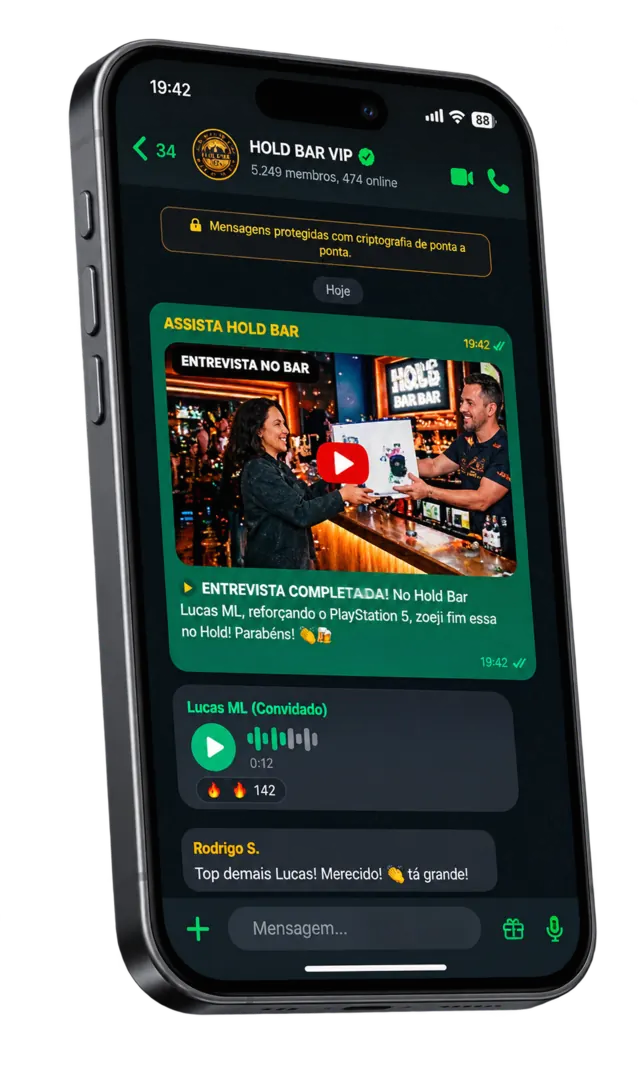
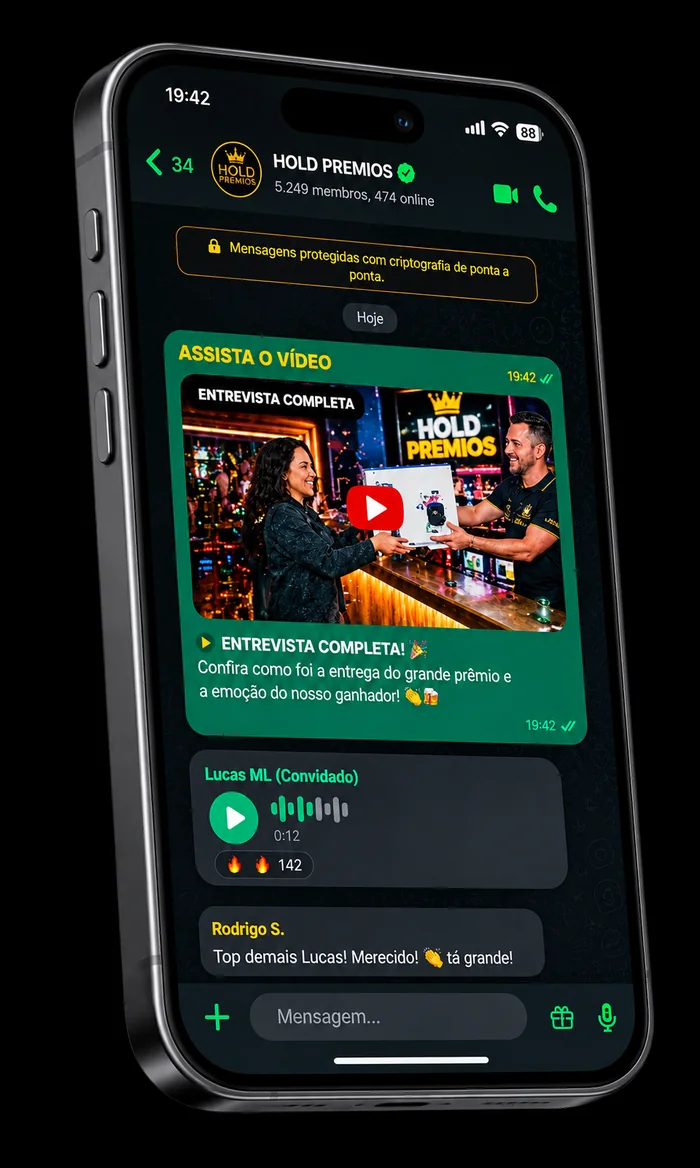
refactor: rename brand to HOLD PRÊMIOS
Update branding across site metadata, titles, and SEO tags to reflect the new company name.

diff --git a/index.html b/index.html
@@ -27,29 +27,29 @@
         }, true);
       })();
     </script>
-    <title>HOLD BAR SPORTS & MUSIC — Rifas e Prêmios</title>
-    <meta name="description" content="Landing page oficial do Hold Bar Sports & Music: concorra a prêmios incríveis, sorteios transparentes e faça parte da nossa comunidade exclusiva no WhatsApp." />
-    <meta name="keywords" content="Hold Bar, rifas, sorteios, prêmios, PlayStation 5, iPhone, Smart TV, bar sports music, poker club, grupo vip whatsapp, sorteios transparentes" />
-    <meta name="author" content="HOLD BAR SPORTS & MUSIC" />
+    <title>HOLD PRÊMIOS — Rifas e Sorteios</title>
+    <meta name="description" content="Landing page oficial da Hold Prêmios: concorra a prêmios incríveis, sorteios transparentes e faça parte da nossa comunidade exclusiva no WhatsApp." />
+    <meta name="keywords" content="Hold Prêmios, rifas, sorteios, prêmios, PlayStation 5, iPhone, Smart TV, grupo vip whatsapp, sorteios transparentes" />
+    <meta name="author" content="HOLD PRÊMIOS" />
     <meta name="robots" content="index, follow, max-image-preview:large, max-snippet:-1, max-video-preview:-1" />
 
     <!-- Open Graph / Facebook / WhatsApp Link Previews -->
     <meta property="og:type" content="website" />
-    <meta property="og:site_name" content="HOLD BAR SPORTS & MUSIC" />
-    <meta property="og:title" content="HOLD BAR SPORTS & MUSIC — Rifas e Prêmios" />
-    <meta property="og:description" content="Landing page oficial do Hold Bar Sports & Music: concorra a prêmios incríveis, sorteios transparentes e faça parte da nossa comunidade exclusiva no WhatsApp." />
+    <meta property="og:site_name" content="HOLD PRÊMIOS" />
+    <meta property="og:title" content="HOLD PRÊMIOS — Rifas e Sorteios" />
+    <meta property="og:description" content="Landing page oficial da Hold Prêmios: concorra a prêmios incríveis, sorteios transparentes e faça parte da nossa comunidade exclusiva no WhatsApp." />
     <meta property="og:image" content="/assets/images/hero_hold_bar.webp" />
     <meta property="og:image:width" content="1440" />
     <meta property="og:image:height" content="900" />
-    <meta property="og:image:alt" content="Hold Bar Sports & Music — Rifas e Prêmios Oficiais" />
+    <meta property="og:image:alt" content="Hold Prêmios — Rifas e Prêmios Oficiais" />
     <meta property="og:locale" content="pt_BR" />
 
     <!-- Twitter / X Social Share Card -->
     <meta name="twitter:card" content="summary_large_image" />
-    <meta name="twitter:title" content="HOLD BAR SPORTS & MUSIC — Rifas e Prêmios" />
-    <meta name="twitter:description" content="Landing page oficial do Hold Bar Sports & Music: concorra a prêmios incríveis, sorteios transparentes e faça parte da nossa comunidade exclusiva no WhatsApp." />
+    <meta name="twitter:title" content="HOLD PRÊMIOS — Rifas e Sorteios" />
+    <meta name="twitter:description" content="Landing page oficial da Hold Prêmios: concorra a prêmios incríveis, sorteios transparentes e faça parte da nossa comunidade exclusiva no WhatsApp." />
     <meta name="twitter:image" content="/assets/images/hero_hold_bar.webp" />
-    <meta name="twitter:image:alt" content="Hold Bar Sports & Music — Rifas e Prêmios Oficiais" />
+    <meta name="twitter:image:alt" content="Hold Prêmios — Rifas e Prêmios Oficiais" />
 
     <!-- Favicon & Mobile Theme -->
     <link rel="icon" type="image/webp" href="/assets/images/logo_hold_ouro.webp" />
@@ -73,13 +73,13 @@
       "@graph": [
         {
           "@type": "Organization",
-          "@id": "https://holdbar.com.br/#organization",
-          "name": "HOLD BAR SPORTS & MUSIC",
-          "alternateName": "Hold Bar",
-          "description": "Bar de esportes, música ao vivo e rifas oficiais com apuração transparente.",
+          "@id": "https://holdpremios.com.br/#organization",
+          "name": "HOLD PRÊMIOS",
+          "alternateName": "Hold Prêmios",
+          "description": "Rifas e prêmios oficiais com apuração transparente.",
           "logo": {
             "@type": "ImageObject",
-            "url": "https://holdbar.com.br/assets/images/logo_hold_ouro.webp"
+            "url": "https://holdpremios.com.br/assets/images/logo_hold_ouro.webp"
           },
           "sameAs": [
             "https://instagram.com/holdbar_pokerclub"
@@ -87,17 +87,17 @@
         },
         {
           "@type": "WebSite",
-          "@id": "https://holdbar.com.br/#website",
-          "name": "HOLD BAR SPORTS & MUSIC — Rifas e Prêmios",
-          "description": "Landing page oficial do Hold Bar Sports & Music: concorra a prêmios incríveis, sorteios transparentes e faça parte da nossa comunidade exclusiva no WhatsApp.",
+          "@id": "https://holdpremios.com.br/#website",
+          "name": "HOLD PRÊMIOS — Rifas e Sorteios",
+          "description": "Landing page oficial da Hold Prêmios: concorra a prêmios incríveis, sorteios transparentes e faça parte da nossa comunidade exclusiva no WhatsApp.",
           "publisher": {
-            "@id": "https://holdbar.com.br/#organization"
+            "@id": "https://holdpremios.com.br/#organization"
           },
           "inLanguage": "pt-BR"
         },
         {
           "@type": "FAQPage",
-          "@id": "https://holdbar.com.br/#faq",
+          "@id": "https://holdpremios.com.br/#faq",
           "mainEntity": [
             {
               "@type": "Question",
@@ -136,7 +136,7 @@
               "name": "Como recebo o meu prêmio?",
               "acceptedAnswer": {
                 "@type": "Answer",
-                "text": "Você pode retirar o prêmio pessoalmente no Hold Bar ou enviamos com frete segurado e código de rastreamento diretamente para o seu endereço em qualquer lugar do Brasil."
+                "text": "Você pode retirar o prêmio pessoalmente na Hold Prêmios ou enviamos com frete segurado e código de rastreamento diretamente para o seu endereço em qualquer lugar do Brasil."
               }
             },
             {

diff --git a/src/components/VideoSection.tsx b/src/components/VideoSection.tsx
@@ -1,6 +1,5 @@
 import React, { useState } from "react";
 import {
-  CheckCircle2,
   Shield,
   Sparkles,
   X,
@@ -39,7 +38,7 @@ export const VideoSection: React.FC = () => {
         <div className="max-w-4xl mx-auto px-4 sm:px-6 lg:px-8 text-center mb-8 sm:mb-12">
           <div className="inline-flex items-center gap-2 px-3.5 py-1.5 rounded-full bg-neutral-900 border border-[#FF7900]/30 text-xs font-condensed font-bold tracking-widest uppercase text-[#FFB000] mb-3 shadow-[0_0_20px_rgba(255,121,0,0.2)]">
             <Sparkles className="w-3.5 h-3.5 text-[#FF7900]" />
-            <span>Prêmios & Ganhadores Oficiais • Hold Bar</span>
+            <span>Prêmios & Ganhadores Oficiais • Hold Prêmios</span>
           </div>
 
           <h2 className="font-condensed font-black text-4xl sm:text-5xl lg:text-6xl uppercase italic tracking-tight text-white leading-none">
@@ -159,31 +158,17 @@ export const VideoSection: React.FC = () => {
           </div>
         </div>
 
-        {/* Pilares de Credibilidade e Botão Central de WhatsApp */}
-        <div className="max-w-5xl mx-auto px-4 sm:px-6 lg:px-8 mt-12 sm:mt-16">
-          <div className="grid grid-cols-1 sm:grid-cols-2 gap-4 sm:gap-6">
-            <div className="flex items-start gap-3.5 p-4 rounded-2xl bg-neutral-900/70 border border-neutral-800">
-              <CheckCircle2 className="w-6 h-6 text-[#FF7900] shrink-0 mt-0.5" />
-              <div>
-                <h4 className="font-condensed font-bold text-lg uppercase text-white tracking-wide">
-                  Entrega em Mãos ou com Seguro
-                </h4>
-                <p className="text-xs sm:text-sm text-neutral-400 font-sans mt-0.5">
-                  Receba seu prêmio pessoalmente nos eventos do Hold Bar ou entregue na sua casa com nota fiscal e rastreio blindado.
-                </p>
-              </div>
-            </div>
-
-            <div className="flex items-start gap-3.5 p-4 rounded-2xl bg-neutral-900/70 border border-neutral-800">
-              <Shield className="w-6 h-6 text-[#FFB000] shrink-0 mt-0.5" />
-              <div>
-                <h4 className="font-condensed font-bold text-lg uppercase text-white tracking-wide">
-                  Sorteios Avisados no Grupo VIP
-                </h4>
-                <p className="text-xs sm:text-sm text-neutral-400 font-sans mt-0.5">
-                  Datas e horários sempre informados com antecedência dentro do nosso grupo oficial do WhatsApp.
-                </p>
-              </div>
+        {/* Pilares de Credibilidade */}
+        <div className="max-w-xl mx-auto px-4 sm:px-6 lg:px-8 mt-12 sm:mt-16">
+          <div className="flex items-start gap-3.5 p-4 rounded-2xl bg-neutral-900/70 border border-neutral-800">
+            <Shield className="w-6 h-6 text-[#FFB000] shrink-0 mt-0.5" />
+            <div>
+              <h4 className="font-condensed font-bold text-lg uppercase text-white tracking-wide">
+                Sorteios Avisados no Grupo VIP
+              </h4>
+              <p className="text-xs sm:text-sm text-neutral-400 font-sans mt-0.5">
+                Datas e horários sempre informados com antecedência dentro do nosso grupo oficial do WhatsApp.
+              </p>
             </div>
           </div>
         </div>
@@ -212,7 +197,7 @@ export const VideoSection: React.FC = () => {
             {/* Cabeçalho do Modal */}
             <div className="pr-12 mb-3">
               <span className="text-xs font-condensed font-bold uppercase tracking-wider text-[#FF7900]">
-                Hold Bar • {selectedItem.tag}
+                Hold Prêmios • {selectedItem.tag}
               </span>
               <h3 className="font-condensed font-black text-2xl sm:text-4xl uppercase italic text-white tracking-wide">
                 {selectedItem.title}

diff --git a/src/components/Hero.tsx b/src/components/Hero.tsx
@@ -1,5 +1,5 @@
 import React from "react";
-import { ShieldCheck, Sparkles, Trophy, Users } from "lucide-react";
+import { ShieldCheck, Trophy } from "lucide-react";
 import { WhatsAppButton } from "./WhatsAppButton";
 import { SITE_CONFIG } from "../config/site";
 
@@ -16,7 +16,7 @@ export const Hero: React.FC = () => {
           />
           <img
             src="/assets/images/hero_hold_bar.webp"
-            alt="Hold Bar Sports & Music — Rifas e Sorteios"
+            alt="Hold Prêmios — Rifas e Sorteios"
             fetchPriority="high"
             loading="eager"
             decoding="sync"
@@ -41,19 +41,13 @@ export const Hero: React.FC = () => {
           {/* LADO ESQUERDO: Tipografia Extrema, Slogan Aumentado e Botão CTA — Alinhado para Mobile */}
           <div className="lg:col-span-7 flex flex-col items-center text-center sm:items-start sm:text-left overflow-visible">
             
-            {/* Top Tagline / Category Badge */}
-            <div className="inline-flex items-center gap-2 px-3.5 py-1.5 rounded-full bg-black/85 backdrop-blur-md border border-[#FF7900]/40 text-[#FFB000] text-xs font-condensed font-bold tracking-widest uppercase mb-5 shadow-[0_0_20px_rgba(255,121,0,0.3)]">
-              <Sparkles className="w-3.5 h-3.5 text-[#FF7900] animate-pulse" />
-              <span>Sorteios Oficiais &bull; Sports &bull; Live Music</span>
-            </div>
-
             {/* Título Principal */}
             <h1 className="font-hero text-6xl sm:text-7xl md:text-8xl xl:text-9xl leading-[0.88] select-none my-1 tracking-tight overflow-visible">
               <span className="block hero-rifas-text overflow-visible">
-                RIFAS DO
+                HOLD
               </span>
               <span className="block hero-hold-bar-text -mt-1 sm:-mt-2 overflow-visible">
-                HOLD BAR
+                PRÊMIOS
               </span>
             </h1>
 
@@ -77,7 +71,7 @@ export const Hero: React.FC = () => {
             </div>
 
             {/* Quick Trust Highlights */}
-            <div className="mt-8 sm:mt-10 pt-6 sm:pt-8 border-t border-neutral-800/80 grid grid-cols-3 gap-2 sm:gap-6 w-full max-w-xl text-neutral-400">
+            <div className="mt-8 sm:mt-10 pt-6 sm:pt-8 border-t border-neutral-800/80 grid grid-cols-2 gap-4 sm:gap-8 w-full max-w-md text-neutral-400">
               <div className="flex flex-col items-center sm:items-start text-center sm:text-left">
                 <div className="flex items-center gap-1.5 text-white font-condensed font-bold text-base sm:text-xl">
                   <ShieldCheck className="w-4 h-4 text-[#FF7900] shrink-0" />
@@ -95,16 +89,6 @@ export const Hero: React.FC = () => {
                 </div>
                 <span className="text-[11px] sm:text-xs text-neutral-400 font-sans mt-0.5">
                   Prêmios entregues
-                </span>
-              </div>
-
-              <div className="flex flex-col items-center sm:items-start text-center sm:text-left">
-                <div className="flex items-center gap-1.5 text-white font-condensed font-bold text-base sm:text-xl">
-                  <Users className="w-4 h-4 text-[#FF7900] shrink-0" />
-                  <span>{SITE_CONFIG.stats.activeMembers}</span>
-                </div>
-                <span className="text-[11px] sm:text-xs text-neutral-400 font-sans mt-0.5">
-                  No grupo VIP
                 </span>
               </div>
             </div>

diff --git a/src/components/WhyParticipateSection.tsx b/src/components/WhyParticipateSection.tsx
@@ -81,7 +81,7 @@ export const WhyParticipateSection: React.FC = () => {
                     3. COMUNIDADE ATIVA
                   </h3>
                   <p className="mt-1 text-xs sm:text-sm text-neutral-400 font-sans leading-relaxed">
-                    Mais de 3.200 membros participando com descontos exclusivos, sorteios relâmpago de cotas grátis e resenha esportiva.
+                    Comunidade exclusiva participando com descontos especiais, sorteios relâmpago de cotas grátis e muita interação no grupo.
                   </p>
                 </div>
               </div>
@@ -108,12 +108,12 @@ export const WhyParticipateSection: React.FC = () => {
             <div className="relative z-10 w-full max-w-[320px] xs:max-w-[360px] sm:max-w-[420px] lg:max-w-[450px] flex justify-center">
               <img
                 src="/assets/images/smartphone_whatsapp.webp"
-                alt="Smartphone com Chat do WhatsApp do Hold Bar VIP"
+                alt="Smartphone com Chat do WhatsApp da Hold Prêmios VIP"
                 loading="lazy"
                 decoding="async"
                 width="450"
-                height="600"
-                className="w-full h-auto object-contain filter drop-shadow-[0_20px_45px_rgba(0,0,0,0.95)] hover:scale-[1.02] transition-transform duration-500 select-none"
+                height="751"
+                className="w-full h-auto object-contain rounded-3xl filter drop-shadow-[0_20px_45px_rgba(0,0,0,0.95)] hover:scale-[1.02] transition-transform duration-500 select-none"
                 referrerPolicy="no-referrer"
               />
             </div>
@@ -121,7 +121,7 @@ export const WhyParticipateSection: React.FC = () => {
             {/* Disclaimer */}
             <div className="text-center mt-3">
               <span className="text-[11px] text-neutral-400 font-sans tracking-wide">
-                Grupo VIP oficial no WhatsApp &bull; Mais de 3.200 membros participando
+                Grupo VIP oficial da Hold Prêmios no WhatsApp
               </span>
             </div>
           </div>

diff --git a/src/components/FinalCtaSection.tsx b/src/components/FinalCtaSection.tsx
@@ -9,7 +9,7 @@ export const FinalCtaSection: React.FC = () => {
       <div className="absolute inset-0 z-0">
         <img
           src="/assets/images/palco_cinematico.webp"
-          alt="Palco Cinemático do Hold Bar Sports & Music"
+          alt="Palco Cinemático da Hold Prêmios"
           loading="lazy"
           decoding="async"
           width="1600"
@@ -58,8 +58,8 @@ export const FinalCtaSection: React.FC = () => {
           />
         </div>
 
-        {/* Badges de Confiança Abaixo do Botão — Sem o card de loteria federal */}
-        <div className="mt-8 sm:mt-10 grid grid-cols-1 sm:grid-cols-3 gap-3 sm:gap-6 text-xs text-neutral-300 font-sans w-full max-w-2xl">
+        {/* Badges de Confiança Abaixo do Botão */}
+        <div className="mt-8 sm:mt-10 grid grid-cols-1 sm:grid-cols-2 gap-3 sm:gap-6 text-xs text-neutral-300 font-sans w-full max-w-lg">
           <div className="flex items-center justify-center gap-2 bg-neutral-900/60 backdrop-blur-sm px-3.5 py-2.5 rounded-xl border border-neutral-800">
             <Zap className="w-4 h-4 text-[#FFB000] shrink-0" />
             <span className="truncate">Apuração Imediata</span>
@@ -67,10 +67,6 @@ export const FinalCtaSection: React.FC = () => {
           <div className="flex items-center justify-center gap-2 bg-neutral-900/60 backdrop-blur-sm px-3.5 py-2.5 rounded-xl border border-neutral-800">
             <Trophy className="w-4 h-4 text-[#FF7900] shrink-0" />
             <span className="truncate">Prêmios Entregues</span>
-          </div>
-          <div className="flex items-center justify-center gap-2 bg-neutral-900/60 backdrop-blur-sm px-3.5 py-2.5 rounded-xl border border-neutral-800">
-            <span className="w-2 h-2 rounded-full bg-emerald-400 animate-pulse shrink-0" />
-            <span className="truncate">+3.200 no Grupo</span>
           </div>
         </div>
 

diff --git a/src/config/site.ts b/src/config/site.ts
@@ -1,28 +1,27 @@
 /**
- * Configurações Centrais do HOLD BAR SPORTS & MUSIC
+ * Configurações Centrais da HOLD PRÊMIOS
  * Altere facilmente o link do WhatsApp, dados de contato e prêmios aqui.
  */
 
 export const SITE_CONFIG = {
-  brandName: "HOLD BAR SPORTS & MUSIC",
-  shortName: "HOLD BAR",
-  tagline: "Sports, Music & Prêmios Exclusivos",
+  brandName: "HOLD PRÊMIOS",
+  shortName: "HOLD PRÊMIOS",
+  tagline: "Rifas e Prêmios Exclusivos",
   
   // Link central do WhatsApp (utilizado em todos os CTAs)
-  whatsappGroupUrl: "https://chat.whatsapp.com/HoldBarRifasOficial",
-  whatsappDirectUrl: "https://wa.me/5511999998888?text=Ol%C3%A1!%20Vim%20pela%20Landing%20Page%20e%20quero%20entrar%20no%20grupo%20VIP%20de%20rifas%20do%20Hold%20Bar!",
+  whatsappGroupUrl: "https://chat.whatsapp.com/HGaW0H8agKR36iZ7rRTIi1?s=sw&p=i&iam=2",
+  whatsappDirectUrl: "https://wa.me/5511999998888?text=Ol%C3%A1!%20Vim%20pela%20Landing%20Page%20e%20quero%20entrar%20no%20grupo%20VIP%20de%20rifas%20da%20Hold%20Pr%C3%AAmios!",
   
   social: {
     instagram: "https://instagram.com/holdbar_pokerclub",
     instagramHandle: "@holdbar_pokerclub",
     drawNotice: "Datas e horários das rifas sempre avisados no Grupo VIP do WhatsApp",
-    supportEmail: "contato@holdbar.com.br",
+    supportEmail: "contato@holdpremios.com.br",
   },
 
   stats: {
     totalPrizesAwarded: "+R$ 180.000",
     totalWinners: "140+",
-    activeMembers: "3.200+",
     satisfactionRate: "100%",
   },
 

diff --git a/src/components/HoldLogo.tsx b/src/components/HoldLogo.tsx
@@ -20,7 +20,7 @@ export const HoldLogo: React.FC<HoldLogoProps> = ({
         <div className="relative w-14 h-14 sm:w-16 sm:h-16 shrink-0 flex items-center justify-center transition-transform hover:scale-105 duration-200">
           <img
             src={logoSrc}
-            alt="Hold Bar Sports & Music"
+            alt="Hold Prêmios"
             className="w-full h-full object-contain filter drop-shadow-[0_0_15px_rgba(255,121,0,0.7)]"
             referrerPolicy="no-referrer"
           />
@@ -39,7 +39,7 @@ export const HoldLogo: React.FC<HoldLogoProps> = ({
 
         <img
           src={logoSrc}
-          alt="Hold Bar Sports & Music Emblema Oficial"
+          alt="Hold Prêmios Emblema Oficial"
           className="relative z-10 w-64 h-64 sm:w-80 sm:h-80 md:w-96 md:h-96 object-contain filter drop-shadow-[0_0_40px_rgba(255,121,0,0.7)]"
           referrerPolicy="no-referrer"
         />
@@ -53,7 +53,7 @@ export const HoldLogo: React.FC<HoldLogoProps> = ({
       <div className="relative w-28 h-28 sm:w-32 sm:h-32 shrink-0 flex items-center justify-center transition-transform hover:scale-105 duration-300">
         <img
           src={logoSrc}
-          alt="Hold Bar Sports & Music Logo Oficial"
+          alt="Hold Prêmios Logo Oficial"
           className="w-full h-full object-contain filter drop-shadow-[0_0_25px_rgba(255,121,0,0.8)]"
           referrerPolicy="no-referrer"
         />

diff --git a/src/components/Footer.tsx b/src/components/Footer.tsx
@@ -13,14 +13,9 @@ export const Footer: React.FC = () => {
         <div className="flex flex-col items-center text-center">
           
           {/* Logo Hold Centralizada */}
-          <div className="mb-6">
+          <div className="mb-8">
             <HoldLogo size="md" />
           </div>
-
-          {/* Pequena Descrição da Marca */}
-          <p className="max-w-xl text-sm sm:text-base text-neutral-400 font-sans leading-relaxed mb-8">
-            O <strong className="text-white">HOLD BAR SPORTS & MUSIC</strong> une paixão por esportes, música ao vivo e as melhores rifas do Brasil. Transparência garantida, extrações públicas e prêmios entregues na mão dos ganhadores.
-          </p>
 
           {/* Links de Navegação */}
           <nav className="flex flex-wrap justify-center gap-6 sm:gap-8 mb-8 text-sm font-condensed font-bold uppercase tracking-wider text-neutral-300">

diff --git a/src/components/FloatingWhatsApp.tsx b/src/components/FloatingWhatsApp.tsx
@@ -34,7 +34,7 @@ export const FloatingWhatsApp: React.FC = () => {
         target="_blank"
         rel="noopener noreferrer"
         className="relative group w-14 h-14 sm:w-16 sm:h-16 rounded-full bg-gradient-to-tr from-[#25D366] to-[#1EBE5D] flex items-center justify-center text-white shadow-[0_0_25px_rgba(37,211,102,0.6)] hover:shadow-[0_0_40px_rgba(37,211,102,0.9)] hover:scale-110 active:scale-95 transition-all duration-300"
-        aria-label="Entrar no Grupo do WhatsApp do Hold Bar"
+        aria-label="Entrar no Grupo do WhatsApp da Hold Prêmios"
       >
         {/* Radar wave ping */}
         <span className="absolute -inset-1 rounded-full bg-[#25D366] opacity-35 animate-ping pointer-events-none" />

diff --git a/src/components/FaqSection.tsx b/src/components/FaqSection.tsx
@@ -30,7 +30,7 @@ const FAQ_ITEMS: FaqItem[] = [
   {
     question: "Como recebo o meu prêmio?",
     answer:
-      "Você pode retirar o prêmio pessoalmente no Hold Bar ou enviamos com frete segurado e código de rastreamento diretamente para o seu endereço em qualquer lugar do Brasil.",
+      "Você pode retirar o prêmio pessoalmente na Hold Prêmios ou enviamos com frete segurado e código de rastreamento diretamente para o seu endereço em qualquer lugar do Brasil.",
   },
   {
     question: "Posso garantir mais de uma cota na mesma rifa?",

diff --git a/src/components/Navbar.tsx b/src/components/Navbar.tsx
@@ -37,7 +37,7 @@ export const Navbar: React.FC = () => {
           <a
             href="#"
             className="flex items-center gap-2 group transition-transform hover:scale-[1.02]"
-            aria-label="Hold Bar Sports & Music Home"
+            aria-label="Hold Prêmios Home"
           >
             <HoldLogo size="sm" />
           </a>
